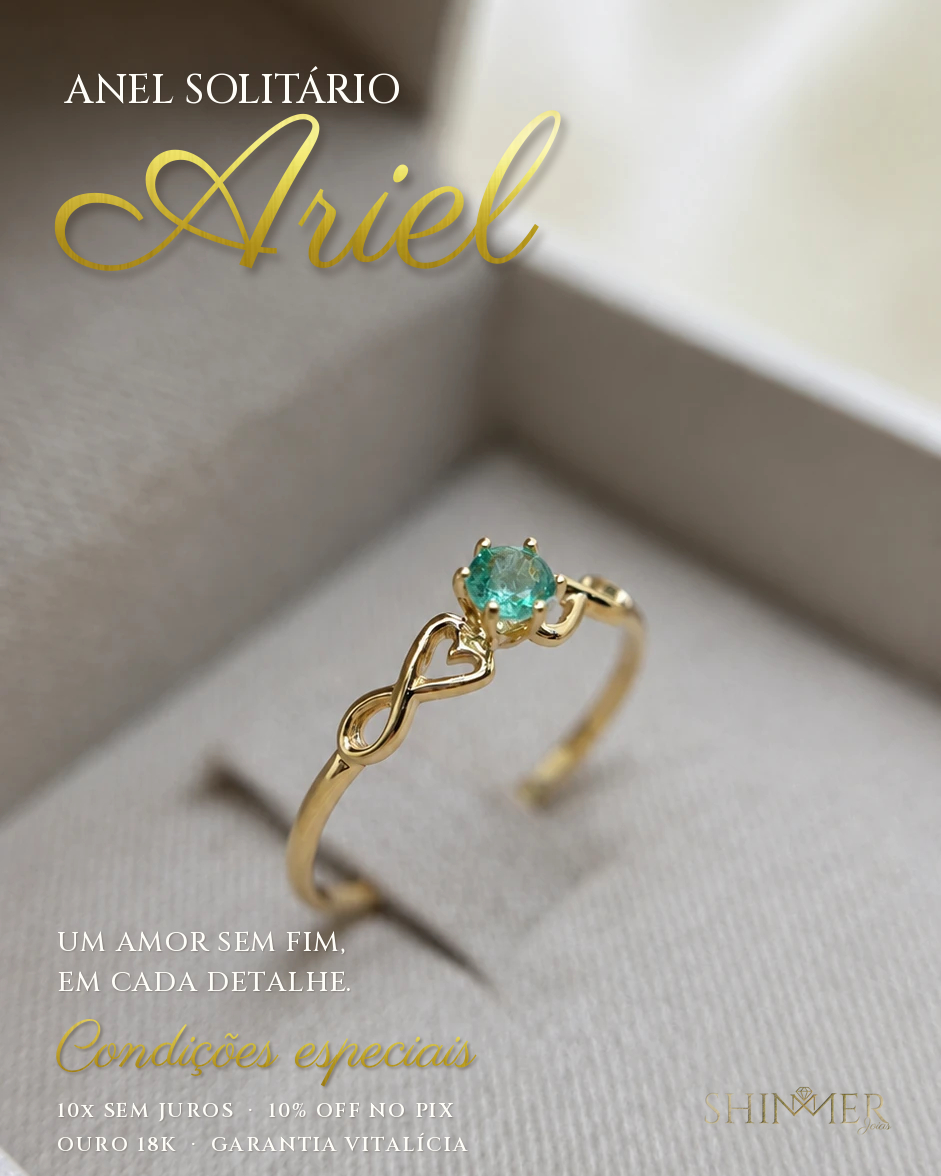
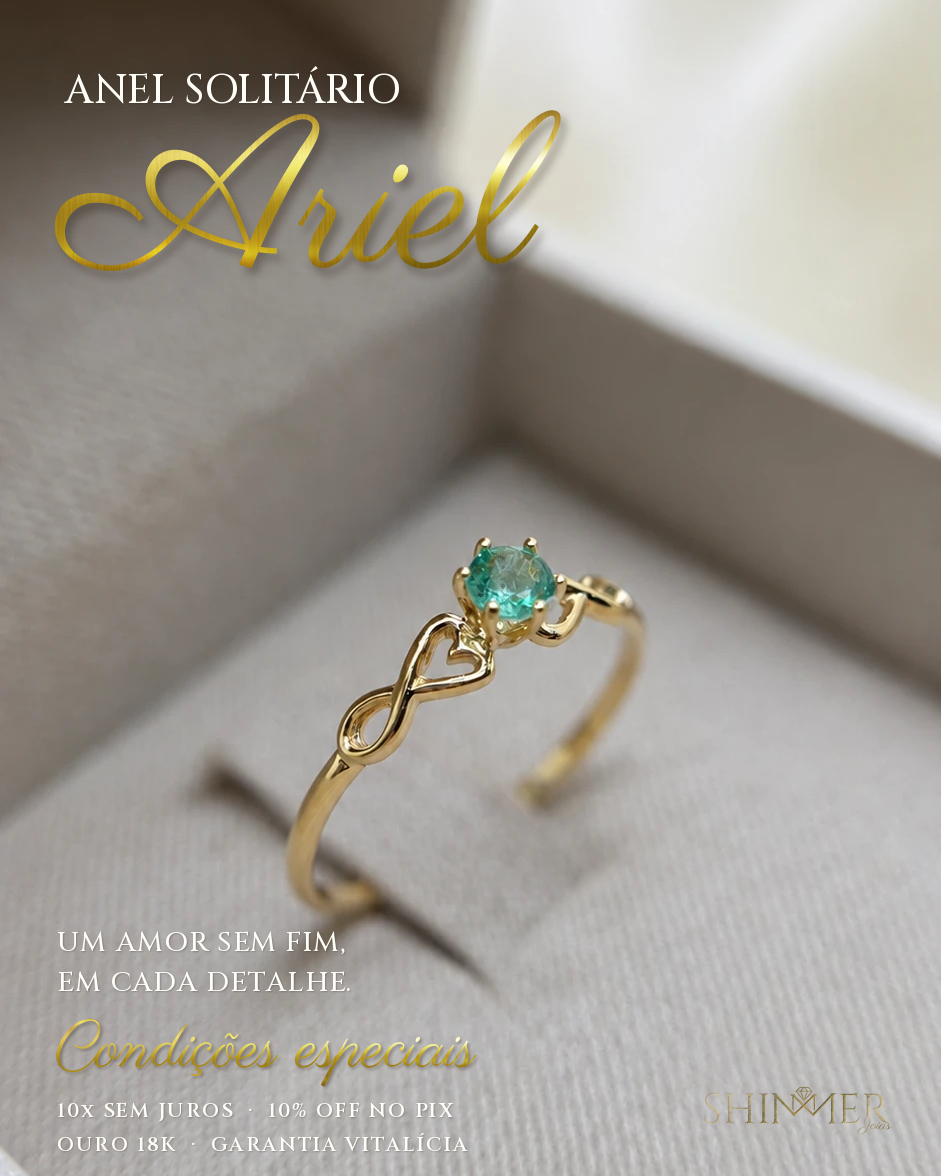
Aplica a textura dourada inteira dentro do texto (efeito PowerClip)
Claude-Session: https://claude.ai/code/session_01RLP9fKwVsDi588D8MrznBA

diff --git a/shimmer_style.py b/shimmer_style.py
@@ -64,13 +64,18 @@ def _with_shadow(fill, m, offset, blur, alpha, color):
 
 
 def gold_text(text, fnt, tracking=0):
-    """Text filled with the brand gold texture, softened toward champagne, with a discreet drop shadow."""
+    """Text clipped inside the brand gold texture, like a PowerClip: the whole texture spans the
+    lettering, so each part of the word catches a different band (highlight, mid gold, darker gold)."""
     m = _mask(text, fnt, tracking)
     w, h = m.size
-    sc = max(w / GOLD_TEX.width, h / GOLD_TEX.height)
-    tex = GOLD_TEX.resize((int(GOLD_TEX.width * sc) + 1, int(GOLD_TEX.height * sc) + 1), Image.LANCZOS)
-    tex = tex.crop(((tex.width - w) // 2, (tex.height - h) // 2, (tex.width - w) // 2 + w, (tex.height - h) // 2 + h))
-    fill = tex.convert('RGBA')  # the brand's gold texture, used exactly as supplied
+    x0, y0, x1, y1 = m.getbbox()
+    iw, ih = x1 - x0, y1 - y0
+    # the ink box covers ~0.15-0.85 of the texture height and its full width
+    th = int(ih / 0.70) + 1
+    tex = GOLD_TEX.resize((iw, th), Image.LANCZOS)
+    top = int(th * 0.15)
+    fill = Image.new('RGBA', (w, h), (0, 0, 0, 0))
+    fill.paste(tex.crop((0, top, iw, top + ih)).convert('RGBA'), (x0, y0))
     fill.putalpha(m)
     off = (max(2, int(fnt.size * 0.025)), max(2, int(fnt.size * 0.035)))
     return _with_shadow(fill, m, off, max(1.5, fnt.size * 0.02), 0.45, (55, 45, 35))
